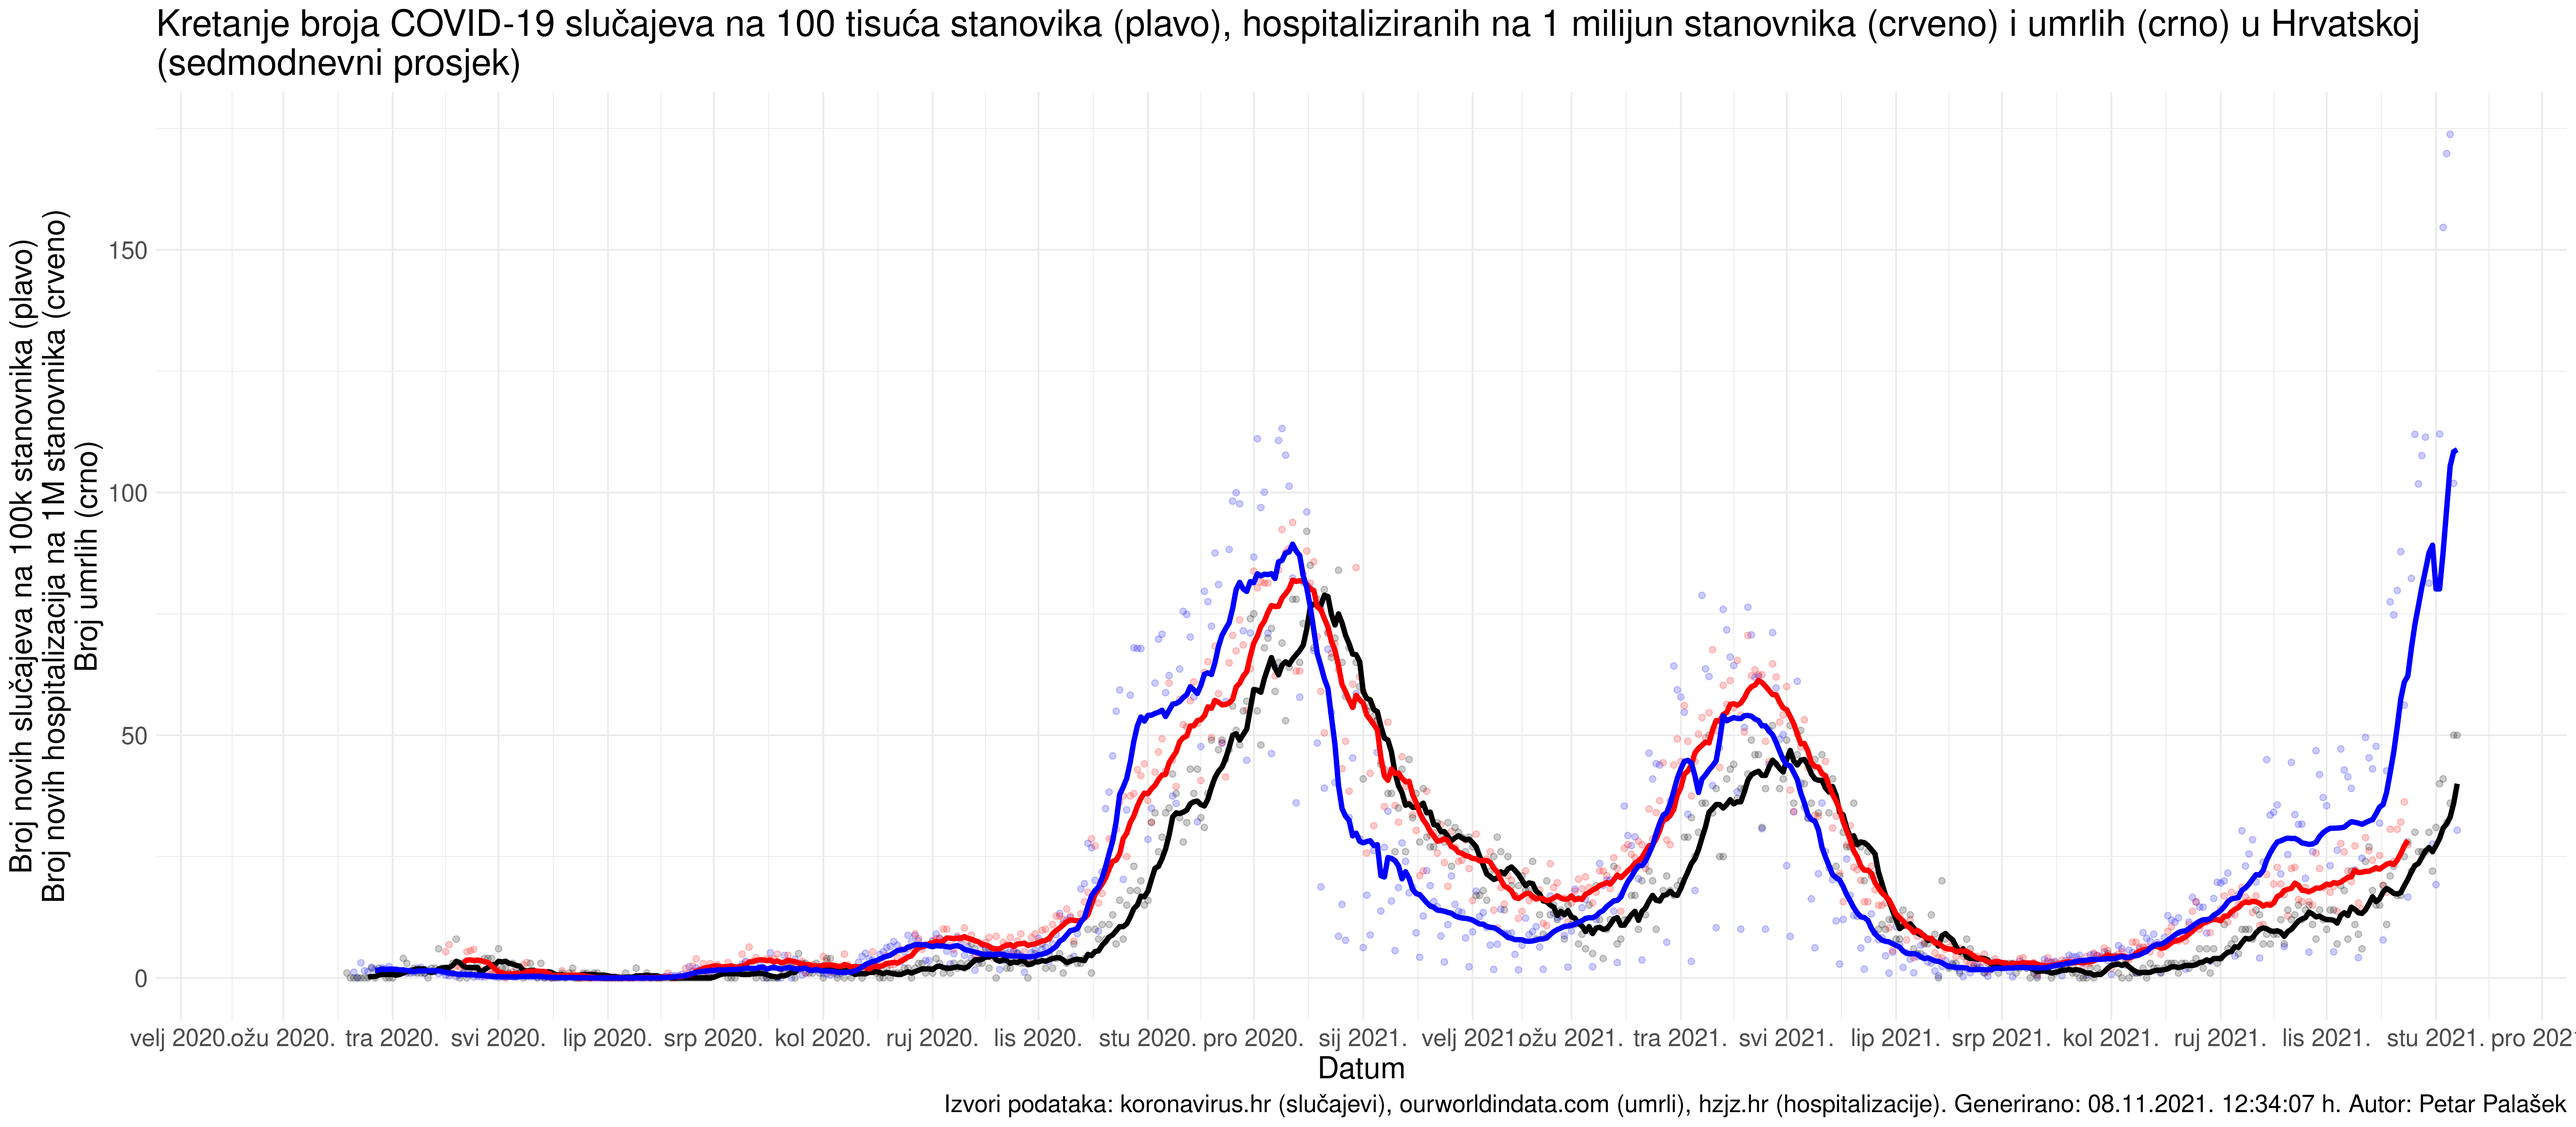
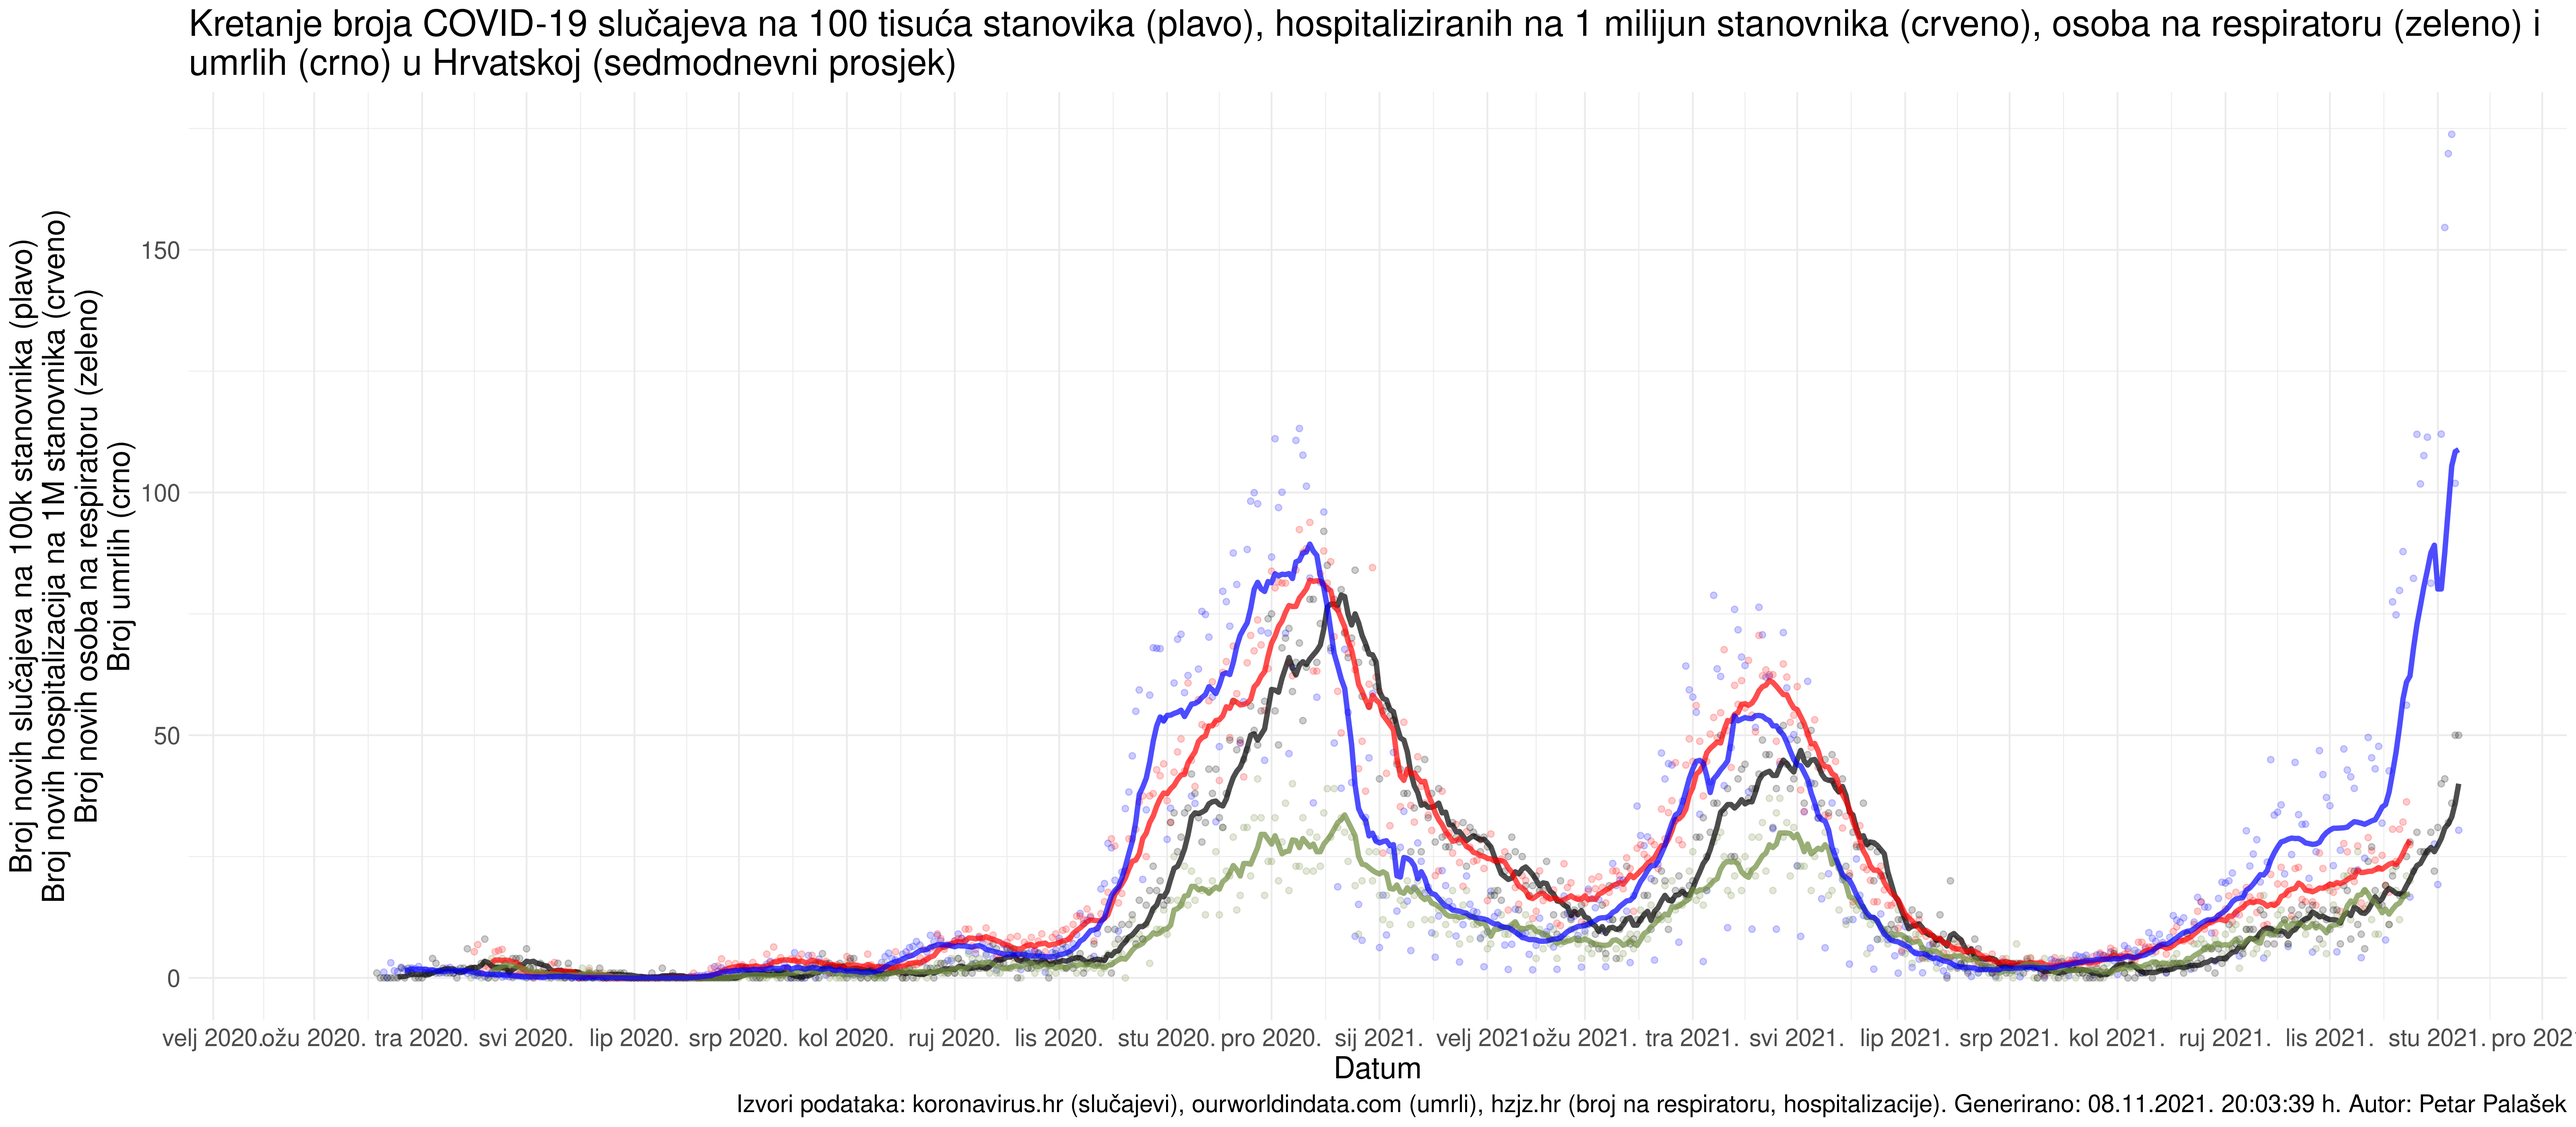
add respirator info and additional heatmap colourmap

diff --git a/index.md b/index.md
@@ -75,7 +75,9 @@ Interaktivni prikazi dostupni su na sljedećim linkovima:
 
 ![](img/2021_11_07_per_age_group.png)
 
-![](img/2021_11_07_per_age_group_all.png)
+![](img/2021_11_07_per_age_group_all_0.png)
+
+![](img/2021_11_07_per_age_group_all_1.png)
 
 ## Pregled broja zaraženih po dobnim skupinama i spolu (u zadnjih 7 dostupnih dana) na 100000 stanovnika
 
